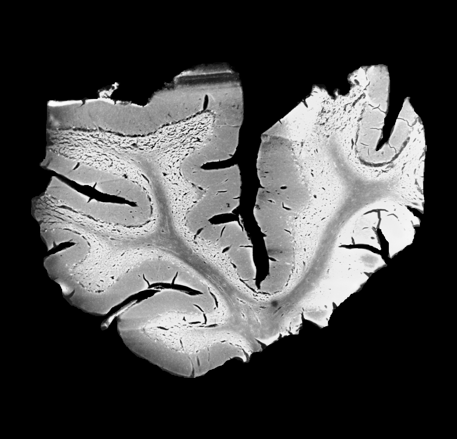
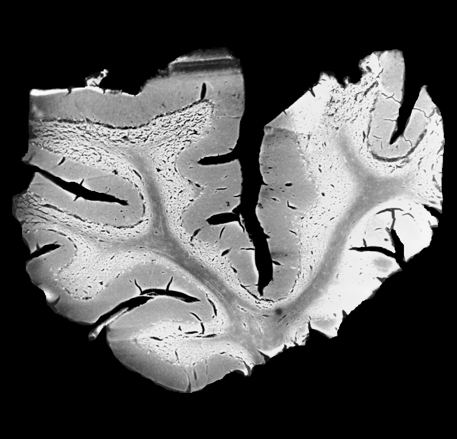
readme changes

Changed region(s): [[0.0306, 0.0888, 0.9803, 0.918]]

diff --git a/example.m b/example.m
@@ -12,7 +12,7 @@ parfor i = 1:Zsize
 end
 
 % load histology
-histologyName = './Data/Resized_histology_0.23.png';
+histologyName = './Data/Resized_histology.png';
 Histology = imread(histologyName);
 
 registerSliceToVolume(CTvolume,Histology,'lower_limit',40, 'upper_limit', 400,...
@@ -24,11 +24,11 @@ registerSliceToVolume(CTvolume,Histology,'lower_limit',40, 'upper_limit', 400,..
 histologyName = './Data/Rotated_histology.png';
 Histology = imread(histologyName);
 
-% tmp
+% localize a histological slide in a 3D data
 registerSliceToVolume(CTvolume,Histology,'lower_limit',40, 'upper_limit', 400,...
     'calculate_features', 1, 'optimization',1,'angle',pi/18,'rotation_invariance',0,...
      'radius',2.2);
-%%
+%% MRI volume
 clear all
 close all
 % load 3D MRI volume 
@@ -54,7 +54,7 @@ t = toc/60
 histologyName = './Data/Rotated_histology.png';
 Histology = imread(histologyName);
 
-% tmp
+% localize a histological slide in a 3D data
 tic;
 registerSliceToVolume(MRIvolume,Histology,'lower_limit',40, 'upper_limit', 400,...
     'calculate_features', 1, 'optimization',1,'angle',pi/18,'rotation_invariance',0,...

diff --git a/README.md b/README.md
@@ -1,9 +1,20 @@
 # SliVo
 
-Slice to volume registration pipeline developed for 2D histological slide to 3D micro computed tomography registration. Details of the algorithm are explained in 
+This 2D to 3D registration pipeline is developed to help localizing a histological slice in a micro computed tomography (CT) volume. The algorithms is based on coarse-to-fine approach. First, the position of the 2D histological slice is initialized as a plane in the 3D CT volume and, then, the plane coordinates are optimized using more sensitive similarity measure. 
+
+The extension of the algorithm can be also applied to MRI. The best performance in this case showed not invariant to rotation extended [SS](https://ieeexplore.ieee.org/abstract/document/4270223) descriptor that is called SL1. 
+
+<img src="https://github.com/Fouga/BacteriaSegmentationSVM/blob/gh-pages/Pipeline2.pdf" />
+
+
+
+Details of the algorithm are explained in the following papers:
 
 Natalia Chicherova, Ketut Fundana, Bert Müller, Philippe C. Cattin,
 [Histology to μCT Data Matching Using Landmarks and a Density Biased RANSAC](https://link.springer.com/chapter/10.1007/978-3-319-10404-1_31), Lecture Notes in Computer Science - MICCAI 2014 8673: 243–250.
+
+Chicherova, N., Hieber, S.E., Khimchenko, A., Bikis, C., Müller, B., Cattin, P.C.
+[Automatic deformable registration of histological slides to μCT volume data](https://onlinelibrary.wiley.com/doi/full/10.1111/jmi.12692), Journal of Microscopy 271, 49–61, 2018.
 
 or see in ./pdf/Histology_to_mCT_Data_Matching_using_Landmarks_and_a_Density_Biased_RANSAC.pdf
 
@@ -12,18 +23,24 @@ or see in ./pdf/Histology_to_mCT_Data_Matching_using_Landmarks_and_a_Density_Bia
 % example of use to register a 2D slice to a 3D volume
 clear all
 close all
-% load 3D volume 
-volume_dir = './Data/';
-filename=[volume_dir 'CT_data.mat'];
-load(filename);
+% load 3D CT volume 
+volume_dir = './Data/3dCT/';
+imds =imageDatastore(fullfile(volume_dir), 'FileExtensions', {'.tif'});
+[Xsize Ysize] = size(readimage(imds,1));
+Zsize = size(imds.Files,1);
+CTvolume = zeros(Xsize, Ysize, Zsize, 'uint8');
+parfor i = 1:Zsize
+    CTvolume(:,:,i) = readimage(imds,i);
+end
 
 % load grayscale histology
-histology_dir = './Data/';
-filename_hist = [histology_dir 'Histology.mat'];
-load(filename_hist);
+histologyName = './Data/Resized_histology.png';
+Histology = imread(histologyName);
 
 % localize a histological slide in a 3D data
-registerSliceToVolume(CT_data,Histology,'lower_limit',100, 'upper_limit', 890,'calculate_features', 1);
+registerSliceToVolume(CTvolume,Histology,'lower_limit',40, 'upper_limit', 400,...
+    'calculate_features', 1, 'optimization',1,'angle',pi/18,'rotation_invariance',1,...
+    'method2dregistration','NCC_NMI', 'radius',2.2);
 ```
 
 # Implementation details
